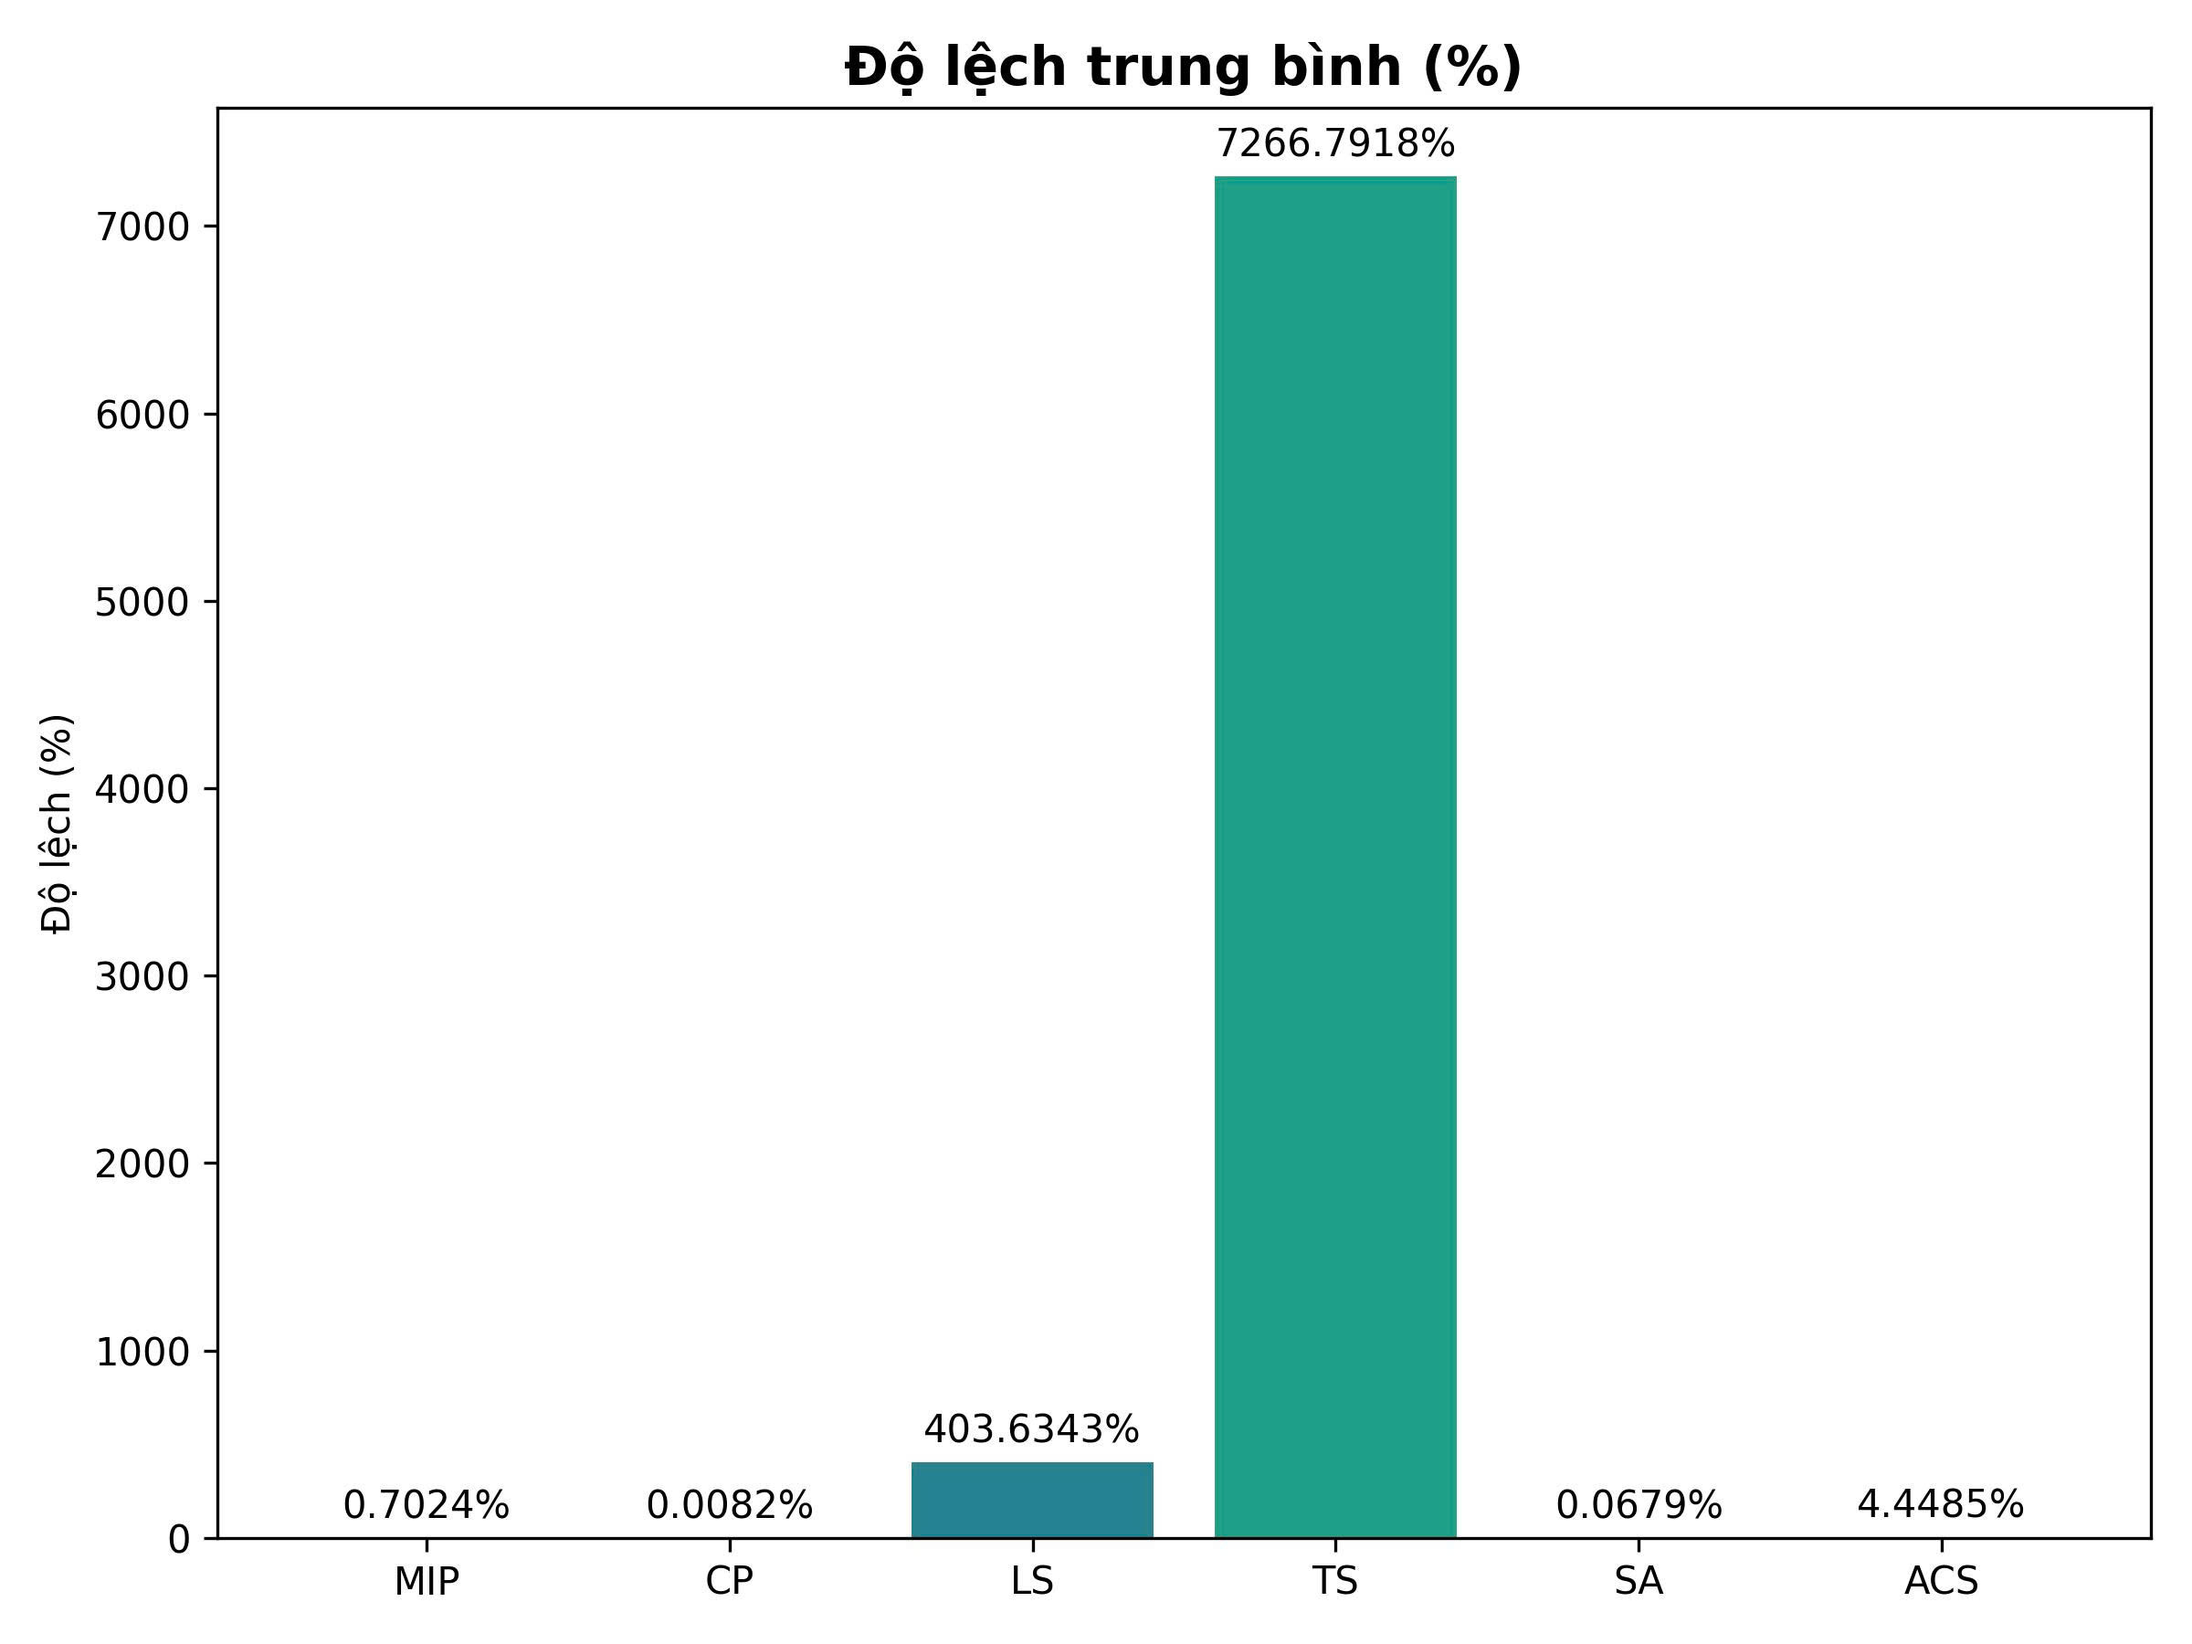
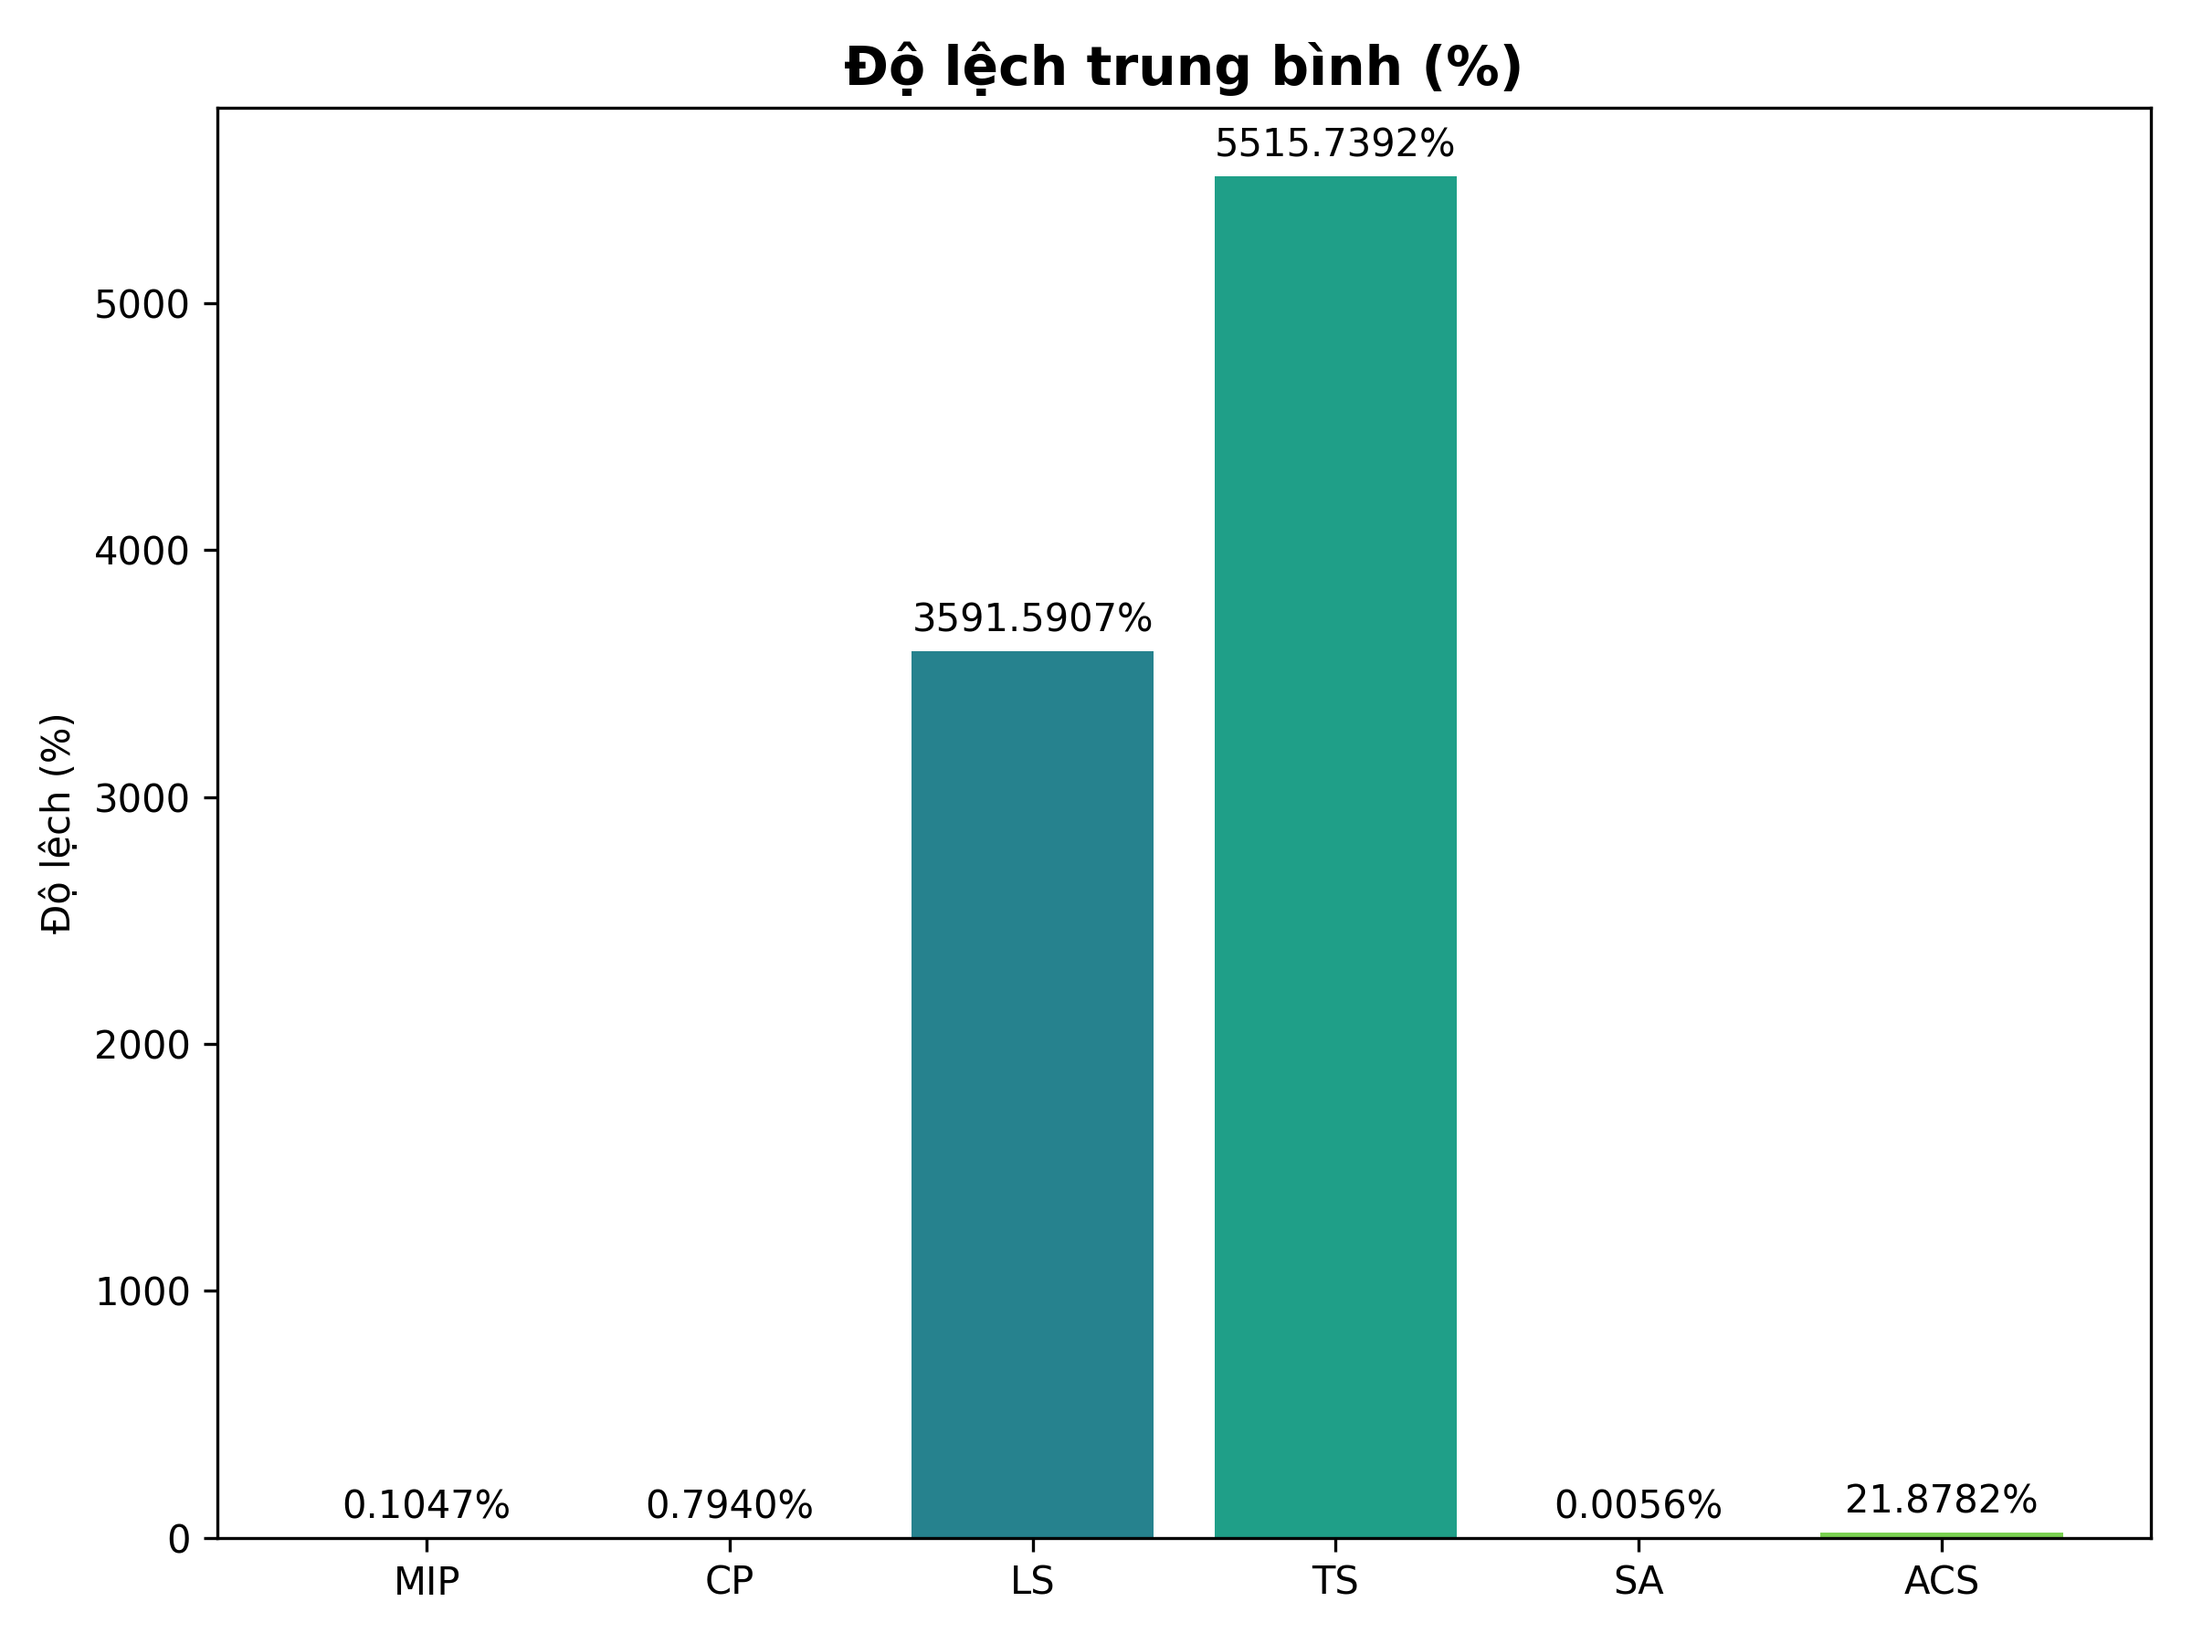
add result

diff --git a/evaluation/evaluate_heuristic.py b/evaluation/evaluate_heuristic.py
@@ -6,15 +6,15 @@ import json
 
 
 EXECUTABLES = {
-    'MIP': 'linear programming/branch_and_cut.py',
+    # 'MIP': 'linear programming/branch_and_cut.py',
     # 'CP': 'constraint programming/guided_local_search.py',
-    'LS': 'local search/local_search',
-    'TS': 'tabu search/tabu_search',
-    'SA': 'stimulated annealing/stimulated_annealing',
+    # 'LS': 'local search/local_search',
+    # 'TS': 'tabu search/tabu_search',
+    # 'SA': 'stimulated annealing/stimulated_annealing',
     'ACS': 'ant colony system/acs'
 }
 
-DATA_DIR = "data/Solomon/makespan"
+DATA_DIR = "data/Dumas/makespan"
 TIME_LIMIT_SEC = 60
 MEMORY_LIMIT_MB = 8 * 1024
 NUM_RUNS = 1

diff --git a/evaluation/plot_results.py b/evaluation/plot_results.py
@@ -61,5 +61,5 @@ def plot_comparisons(json_file):
     print(f"Đã lưu 3 biểu đồ tại: {save_dir}")
 
 if __name__ == "__main__":
-    json_file = 'evaluation/results/Dumas/travel_time/result.json'
+    json_file = 'evaluation/results/Dumas/makespan/result.json'
     plot_comparisons(json_file)
